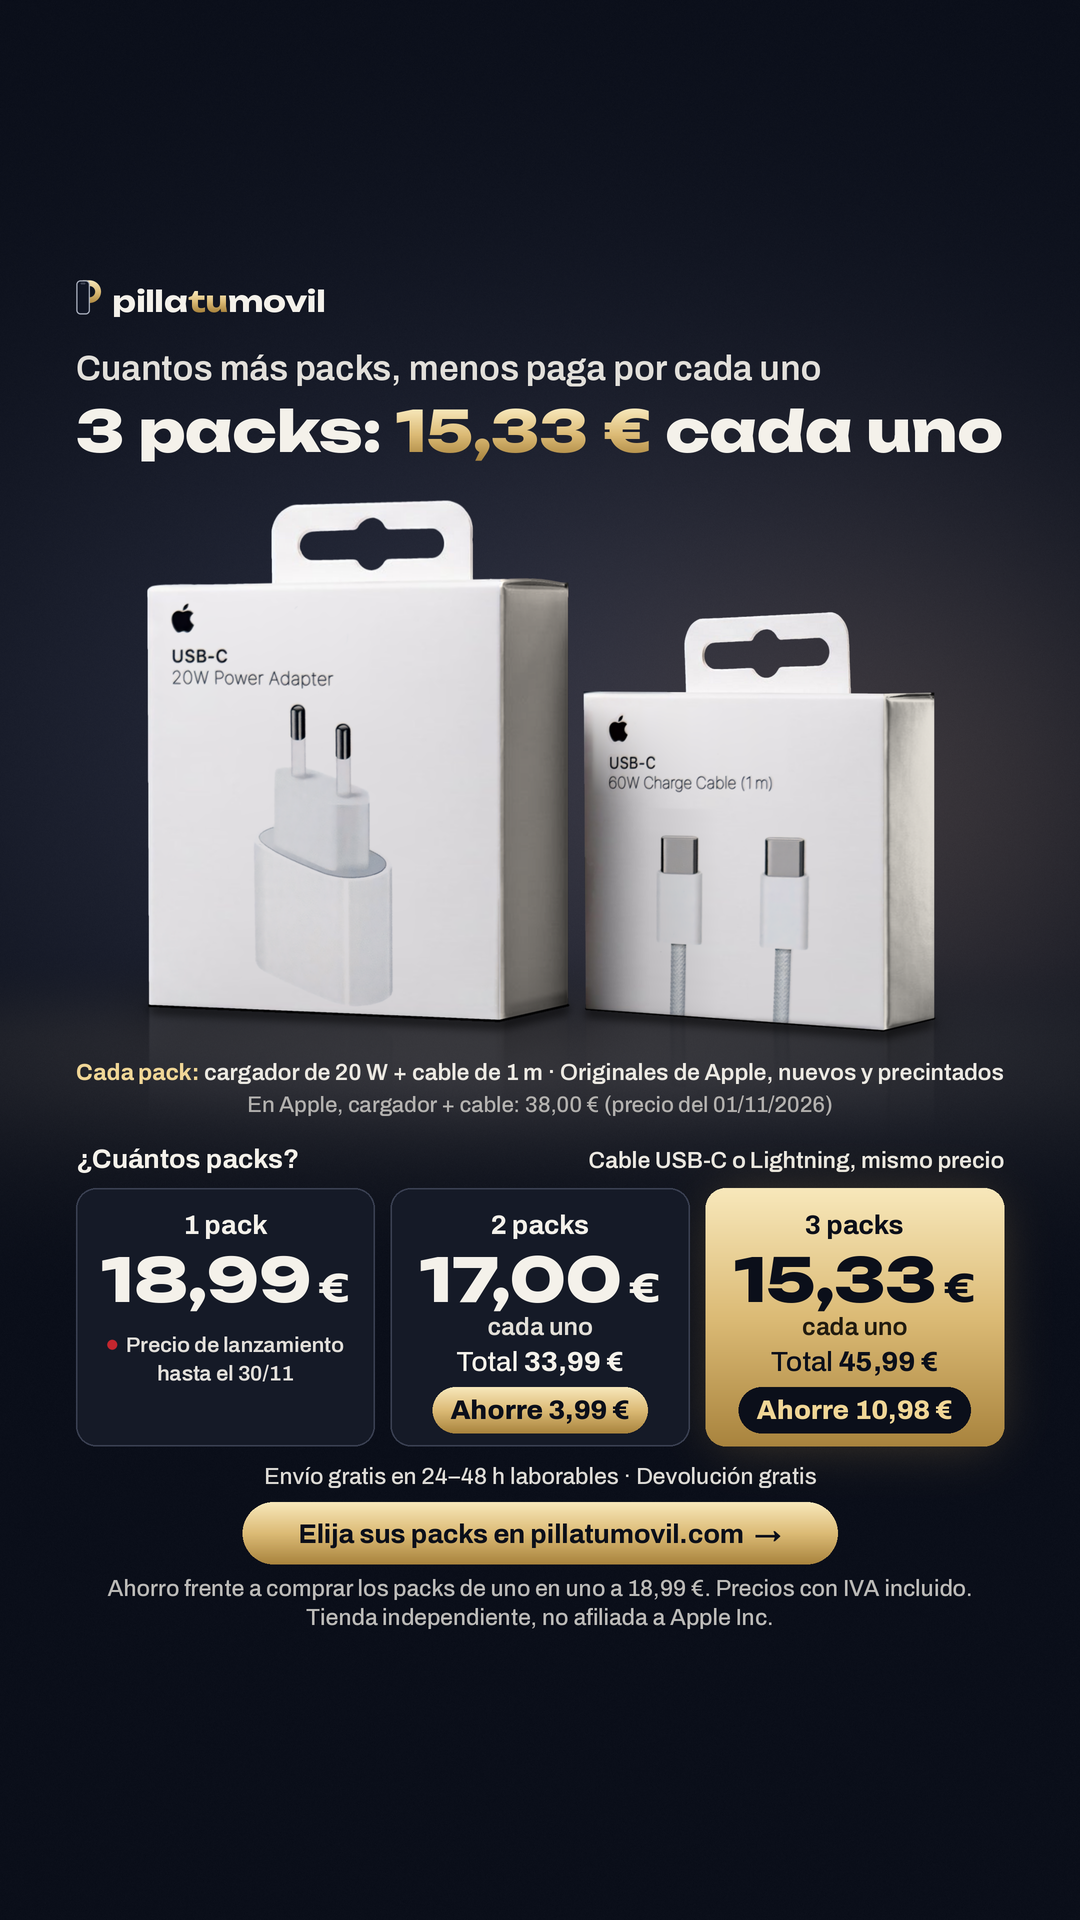
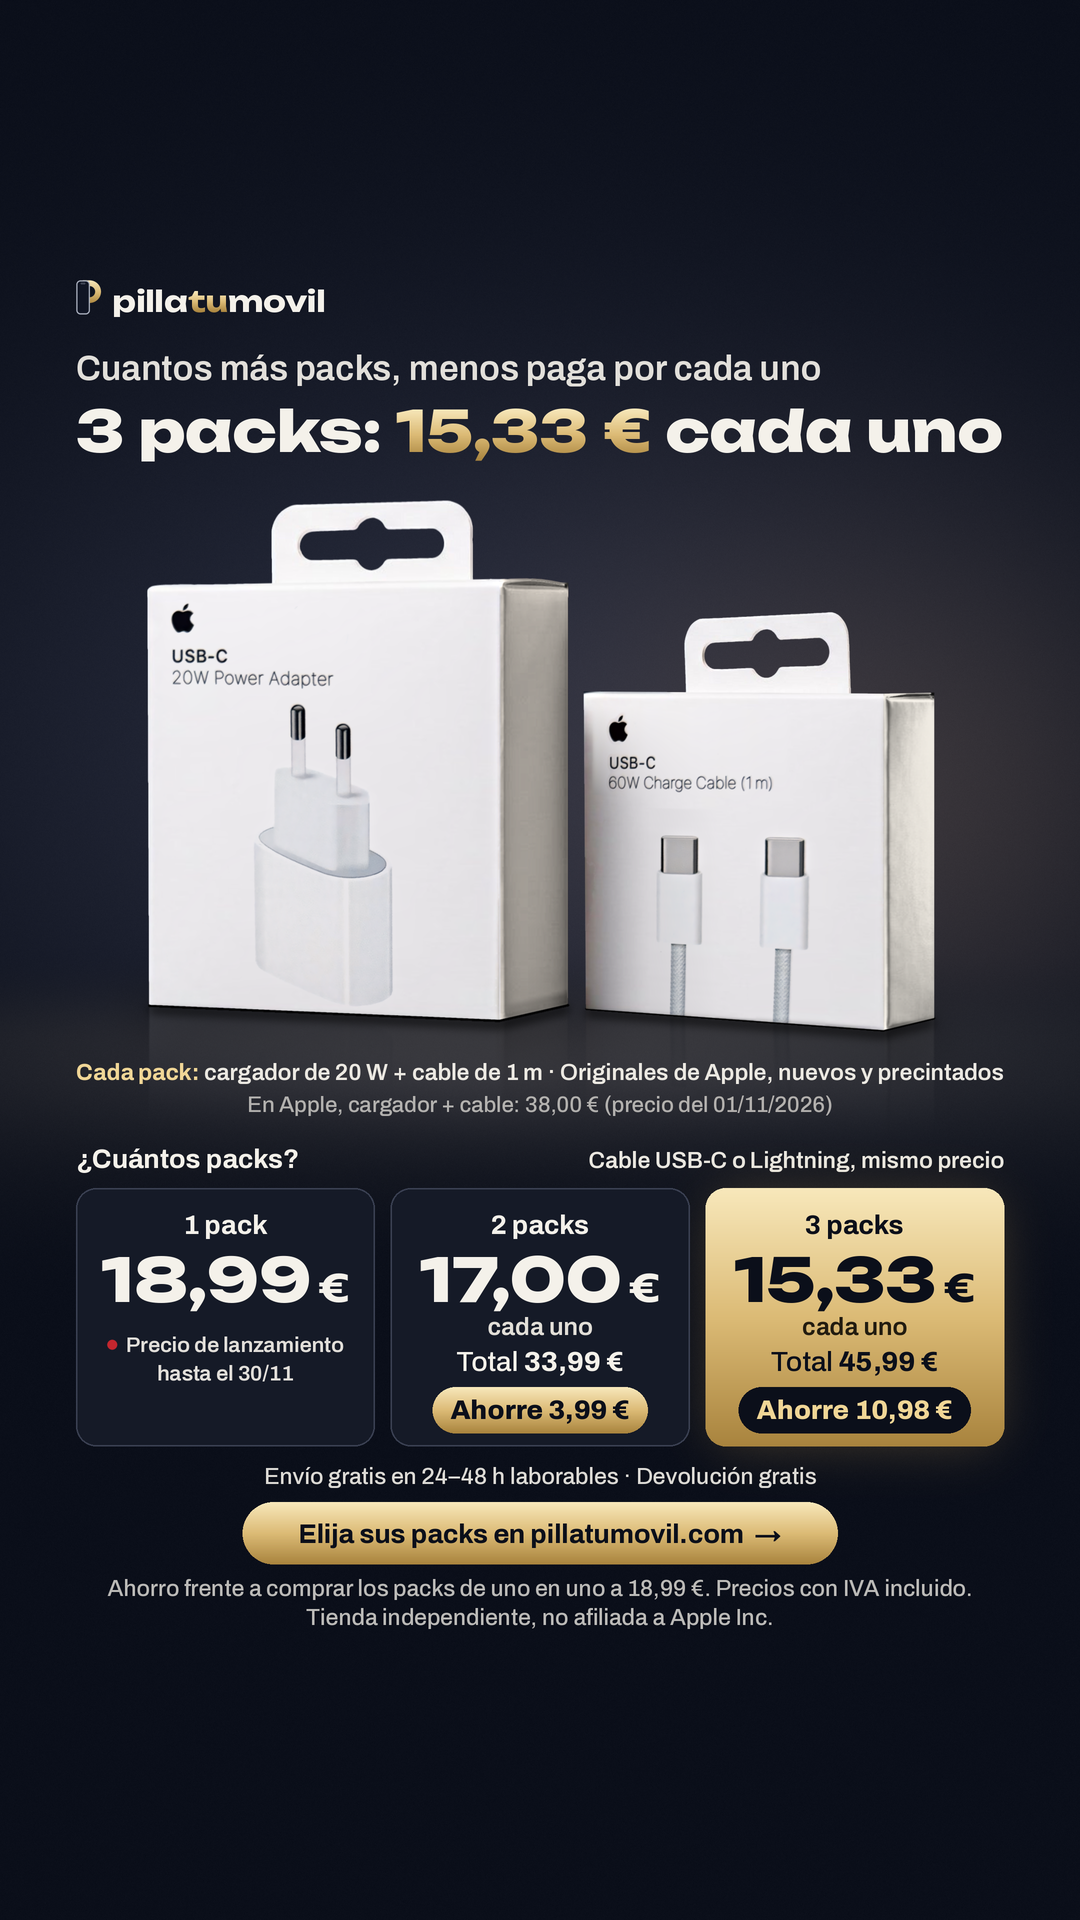
Anuncio de imagen de packs: cajas más claras, con menos sombra
Lo pidió el dueño. Se aclara la luz de las cajas sin tocar la impresión.

Claude-Session: https://claude.ai/code/session_01Nc9WKw6CJWQJZcFTdaUv41

Changed region(s): [[0.4583, 0.2812, 0.6417, 0.5312], [0.825, 0.4688, 0.8861, 0.5312], [0.7028, 0.4375, 0.7333, 0.4688]]

diff --git a/pillatumovil/anuncios/2026-11/imagen-packs/hacer.py b/pillatumovil/anuncios/2026-11/imagen-packs/hacer.py
@@ -278,6 +278,27 @@ def recorte_escalado(esc):
     return _rec[key]
 
 
+# 22/11 (dueño): «le quite un pelín de oscuridad a las cajas… le veo mucha sombra». Se aclara la LUZ de las cajas
+# (no la tinta): se estima la iluminación sin la impresión (cierre morfológico + desenfoque) y se le aplica una curva
+# que levanta las sombras (lateral del cargador, base, sombra del cargador sobre el cable); la tinta conserva su contraste.
+ACLARAR_GAMMA = 0.64      # 1 = como estaba; menos = más claro en las sombras
+ACLARAR_MAX = 248.0       # techo del blanco del cartón (sin quemar)
+
+
+def aclarar_cajas(rgb, a, esc):
+    if ACLARAR_GAMMA >= 1:
+        return rgb
+    L = rgb.mean(2)
+    k = max(3, int(round(22 * esc)) | 1)                       # quita trazos de tinta (~5-15 px)
+    cerr = cv2.morphologyEx(L, cv2.MORPH_CLOSE, cv2.getStructuringElement(cv2.MORPH_ELLIPSE, (k, k)))
+    s = max(1.0, 6 * esc)
+    num = cv2.GaussianBlur(cerr * a, (0, 0), s); den = cv2.GaussianBlur(a, (0, 0), s)
+    luz = np.clip(num / np.maximum(den, 1e-3), 1, 255)
+    objetivo = np.minimum(255 * (luz / 255) ** ACLARAR_GAMMA, np.maximum(luz, ACLARAR_MAX))
+    gan = (objetivo / luz)[..., None]
+    return np.clip(rgb * gan, 0, 255)
+
+
 def poner_producto(img, ancho_par, cx, y_base):
     """Pega el pack (dos cajas) con el par de ancho `ancho_par` (px lienzo)
     centrado en cx y la línea de apoyo del cargador (esquina del pliegue) en y_base.
@@ -287,6 +308,7 @@ def poner_producto(img, ancho_par, cx, y_base):
     rec, info = recorte_escalado(esc)
     arr = np.asarray(rec).astype(np.float32)
     rgb, a = arr[..., :3], arr[..., 3] / 255
+    rgb = aclarar_cajas(rgb, a, esc)
     h, w = a.shape
     ox = cx - ((X0 + X1) / 2 - info['origen'][0]) * esc
     # apoyo: el punto más bajo de las bases (esquina del pliegue del cable)

diff --git a/pillatumovil/anuncios/2026-11/LEEME.md b/pillatumovil/anuncios/2026-11/LEEME.md
@@ -314,3 +314,4 @@ Por qué: casi no había carritos. Meta contaba unos 12 del 05/11 al 09/11, pero
   - Las cajas salen de la foto de estudio `fotos/estudio/ps-estudio-portada.jpg`, pero esa foto tiene la caja del cable tan alta como la del cargador. Se rehízo con las medidas reales (`fotos/caja3d/medidas.json`) y el frontal real (`fotos/caja3d/*-frente.png`): la del cable es cuadrada y más baja. Las pestañas también, a su tamaño real. Comprobado contra `fotos/reales/cajas-frente-usb-c.jpg`.
   - Formatos: `anuncio_4x5.png` (Feed), `anuncio_9x16.png` (solo Stories) y `anuncio_9x16_reels.png` (solo Reels, todo por encima de y 1240). Versiones `_dic` con el pack suelto a 19,99 € para el 01/12.
   - `hacer.py` (precios como parámetros) y `recorte.py` (recorte de las cajas). Textos para Meta y calendario en `texto_meta.txt`.
+  - El dueño: «está mucho mejor… le quite un pelín de oscuridad a las cajas… le veo mucha sombra». Se aclaró la luz de las cajas sin tocar la tinta (`ACLARAR_GAMMA` en `hacer.py`): frontales de 218 a 230 y lateral del cargador de 95 a 135.
